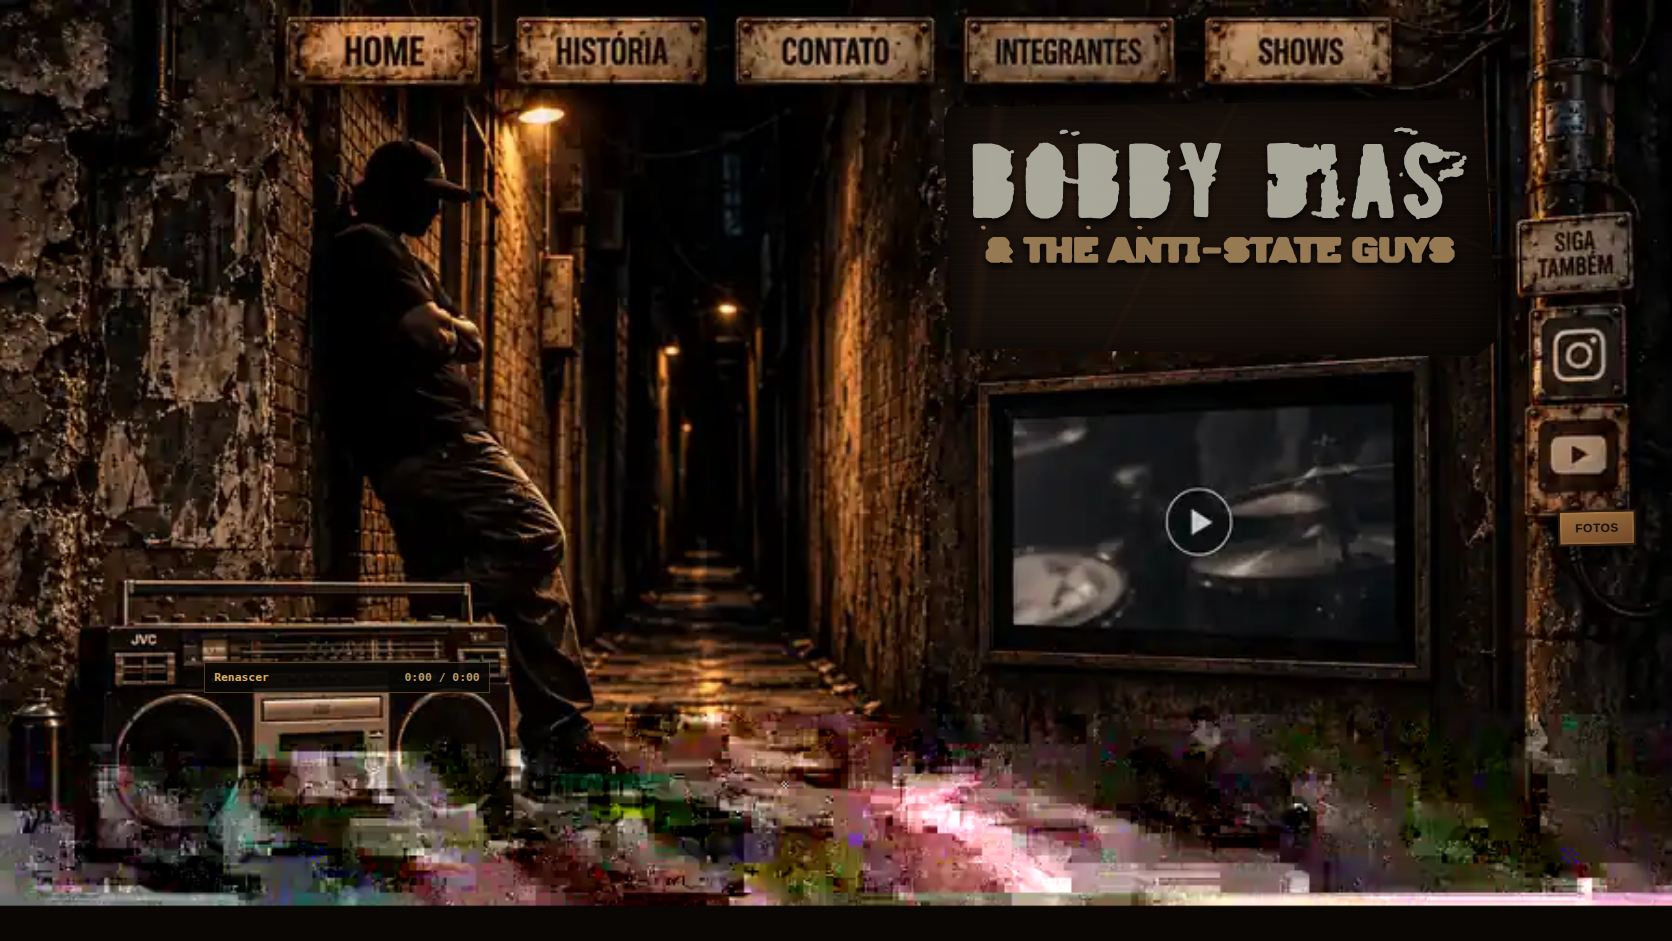
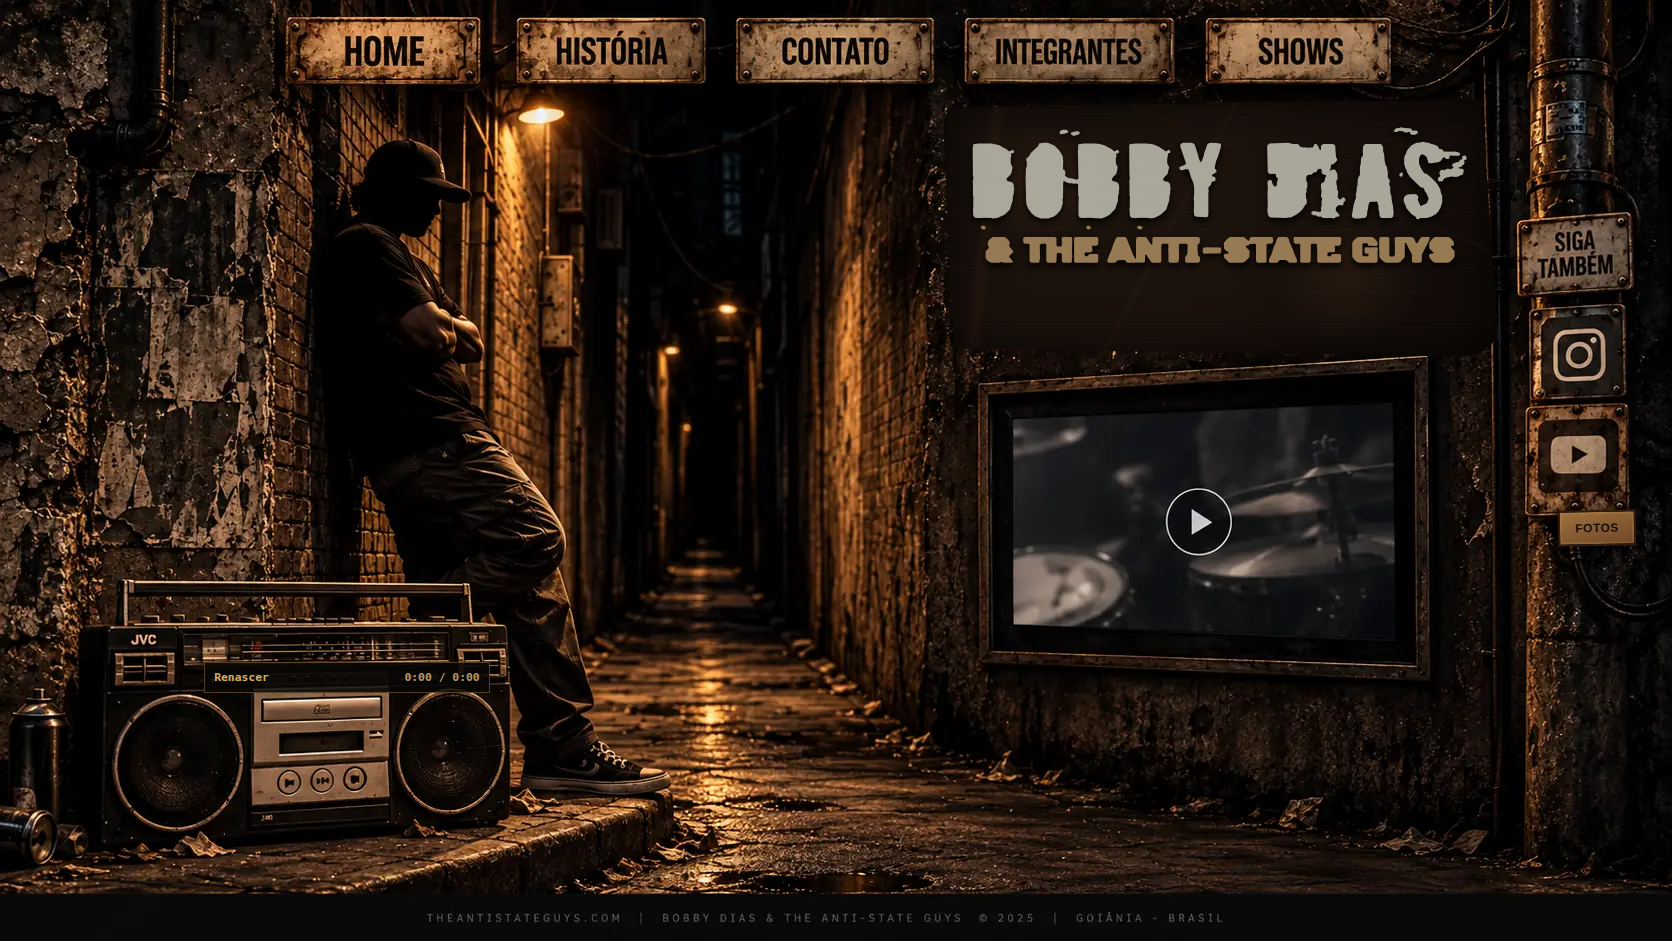
test: persist scenic v2 visual QA preview

diff --git a/QA-VERIFY.md b/QA-VERIFY.md
@@ -2,7 +2,9 @@
 
 - Result: PASS
 - Browser: Chromium / Playwright 1.55.0
-- Tested: desktop 1672x941, desktop 1440x900, mobile 390x844, all internal routes, image decoding, music catalog and persistent audio element.
-- Source commit: 9e9b912ac697f32b5fbdafa3d453749a45c5b881
+- Responsive rule: space/aspect-ratio driven; no single device size is treated as canonical.
+- Home matrix: 320x568, 390x844, 430x932, 600x1024, 800x1280, 1024x768, 1280x800, 1672x941, 2560x1080.
+- Additional checks: horizontal overflow, minimum interactive target size, image decoding, internal routes, music catalog and persistent audio element.
+- Source commit: 6ed41df767de6d9a4a8696a7a1e323e236043a40
 
 Temporary screenshots are stored in `.qa-preview/` for design review and must be removed before production merge.
